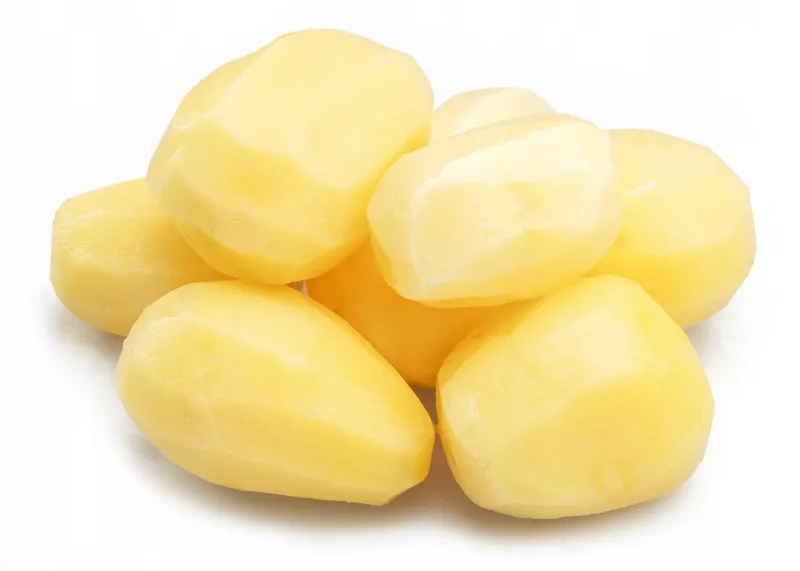
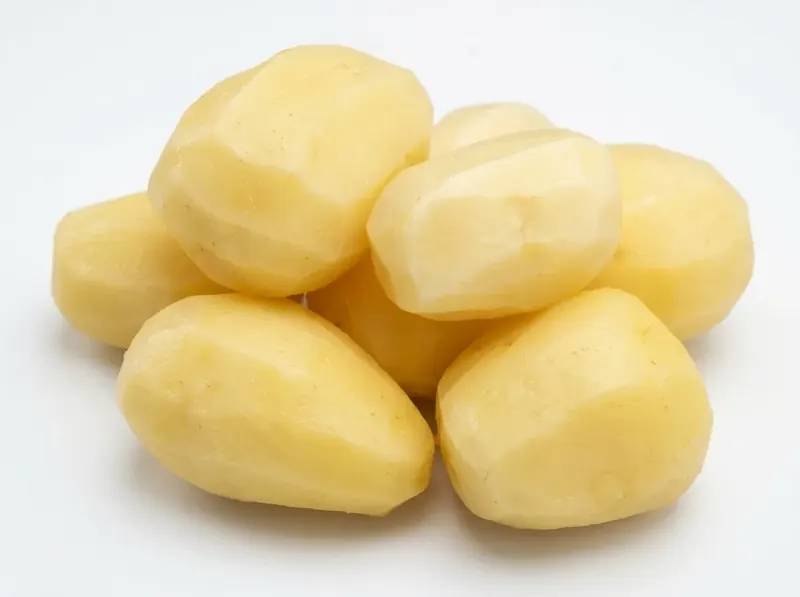
Photos: peeled potatoes for product tile and 'Warzywa obierane' section
Claude-Session: https://claude.ai/code/session_01FXJ2rbHnbSjxptSmxWtMMX

diff --git a/asortyment.html b/asortyment.html
@@ -126,8 +126,7 @@
         <p><a href="tel:+48782272727" class="btn btn-red">Zapytaj o warzywa obierane</a></p>
       </div>
       <div class="split-photo">
-        <!-- TODO: zdjęcie warzyw obieranych -->
-        <img src="img/stock-warzywa.webp" alt="Świeże warzywa" loading="lazy">
+        <img src="img/warzywa-obierane.webp" alt="Obrane ziemniaki – warzywa obierane z hurtowni Sylwia" width="1200" height="896" loading="lazy">
       </div>
     </div>
   </section>

diff --git a/zamow/sw.js b/zamow/sw.js
@@ -1,5 +1,5 @@
 // Offline cache for the ordering app. Bump VERSION when files change.
-const VERSION = "sylwia-zamow-v23";
+const VERSION = "sylwia-zamow-v24";
 const ASSETS = ["./", "index.html", "app.css", "app.js", "products.js", "manifest.webmanifest",
   "icons/icon-192.png", "../img/favicon.svg",
   "../fonts/jost-latin.woff2", "../fonts/jost-latin-ext.woff2"];

diff --git a/tools/build.py b/tools/build.py
@@ -329,8 +329,7 @@ PEELED = f'''
         <p><a href="tel:+48782272727" class="btn btn-red">Zapytaj o warzywa obierane</a></p>
       </div>
       <div class="split-photo">
-        <!-- TODO: zdjęcie warzyw obieranych -->
-        <img src="img/stock-warzywa.webp" alt="Świeże warzywa" loading="lazy">
+        <img src="img/warzywa-obierane.webp" alt="Obrane ziemniaki – warzywa obierane z hurtowni Sylwia" width="1200" height="896" loading="lazy">
       </div>
     </div>
   </section>'''
